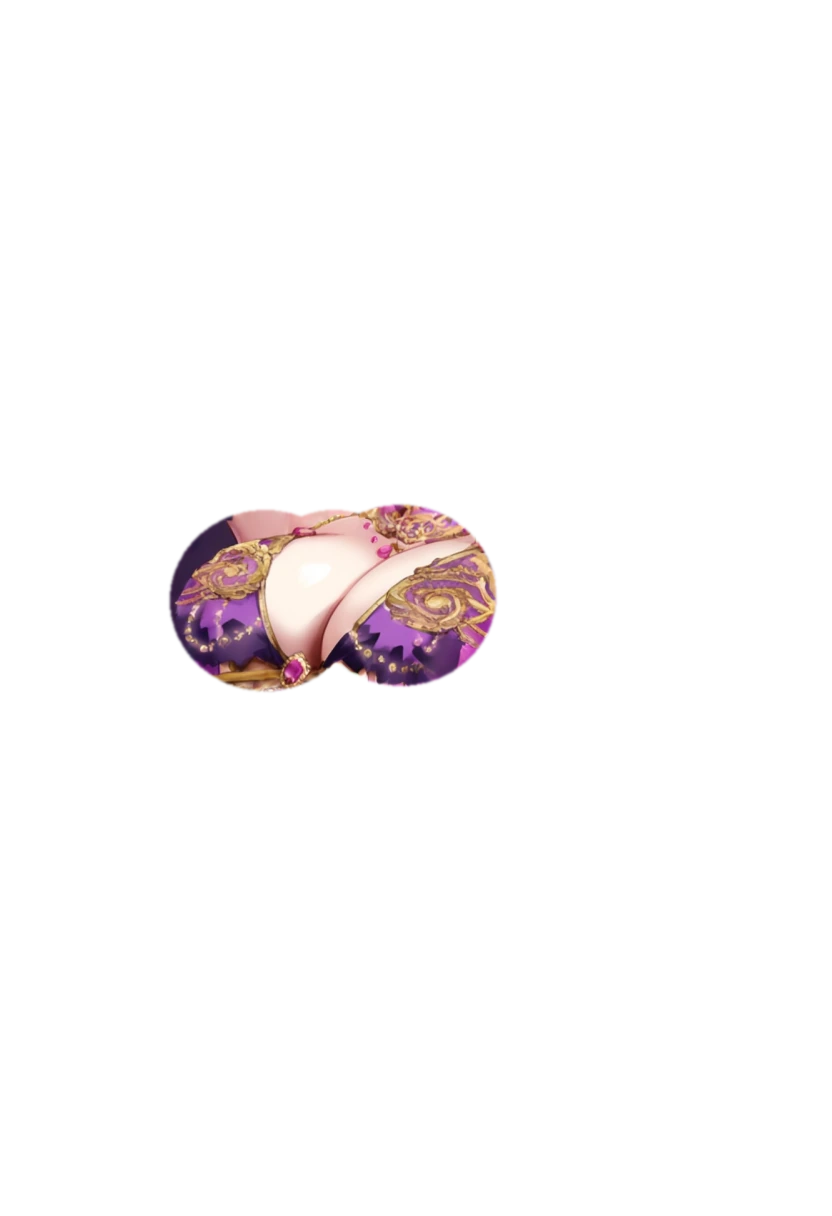
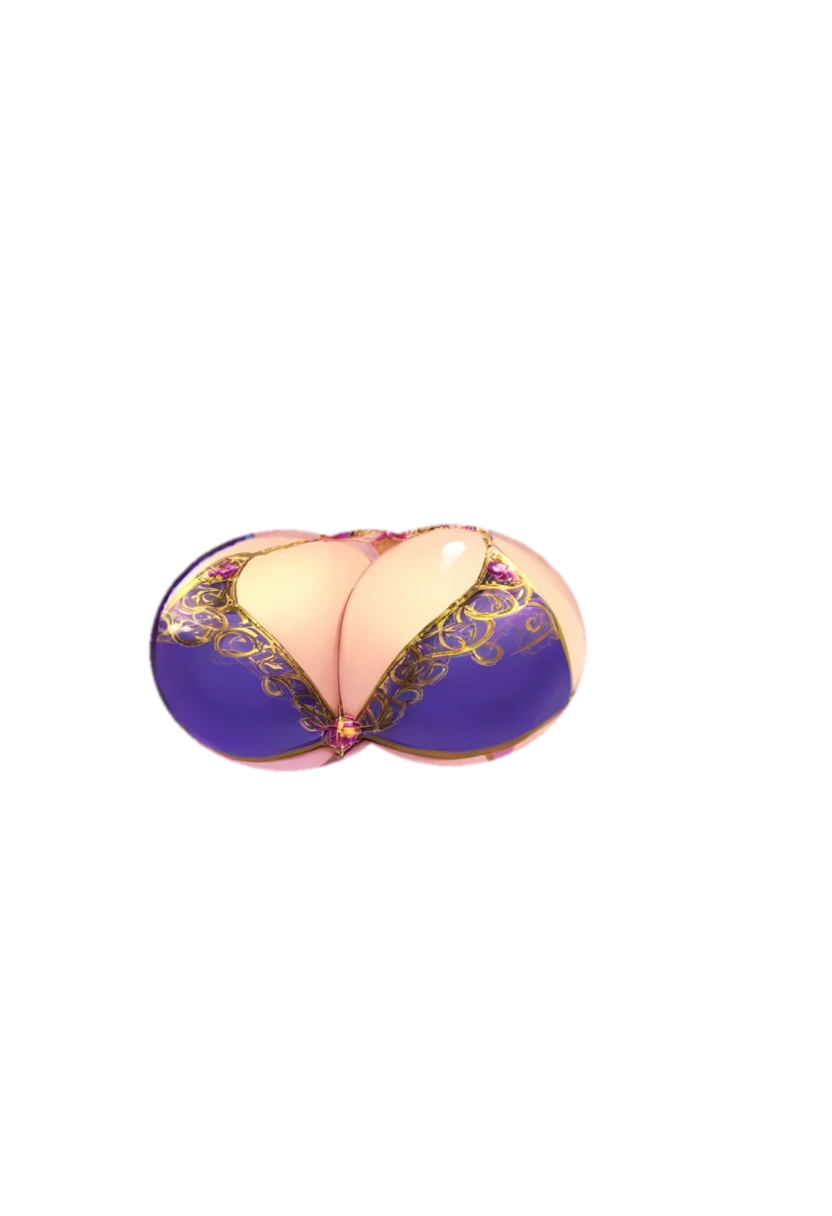
Diaochan v4: bigger chest, beltless base, both sides move together (link)
Claude-Session: https://claude.ai/code/session_017CQhY3FLdH51zJppLF11JD

Changed region(s): [[0.1562, 0.4062, 0.7188, 0.6562]]

diff --git a/game/public/js/layered.js b/game/public/js/layered.js
@@ -16,8 +16,8 @@
     },
     // 貂蟬 v2（2026-11-19 開發用 Colab＋Illustrious-XL 自己生的，Jay 選圖）：只有胸部、平胸底層、閉眼三層
     diaochan_v4: {
-      w: 832, h: 1216,
-      art: [[0.3185, 0.4934, 0.1142, 0.0740], [0.4808, 0.4893, 0.1142, 0.0740]],   // v2 的臉＋舞姬裝，胸部單獨生成（2026-11-19）
+      w: 832, h: 1216, link: 1,
+      art: [[0.3425, 0.5345, 0.1623, 0.0987], [0.5409, 0.5304, 0.1623, 0.0987]],   // v2 的臉＋舞姬裝，胸部單獨生成（2026-11-19 重做：放大、底層整片紫）
     },
     diaochan_v3: {
       w: 832, h: 1216,
@@ -106,7 +106,7 @@
       else { cc.globalCompositeOperation = "destination-in"; cc.drawImage(m, 0, 0); }
       tex = { base: mkTex(b), chest: mkTex(c), blink: mkTex(imgs.blink) }; if (imgs.acc) tex.acc = mkTex(imgs.acc); if (imgs.hair) tex.hair = mkTex(imgs.hair);
     }
-    names.forEach(function (n) { var im = new Image(); im.onload = function () { imgs[n] = im; if (--left === 0) compose(); }; im.src = base + (R.pre || id + "_") + n + ".webp?v=12"; });   // 改圖要換這個數字，不然手機會用到舊圖
+    names.forEach(function (n) { var im = new Image(); im.onload = function () { imgs[n] = im; if (--left === 0) compose(); }; im.src = base + (R.pre || id + "_") + n + ".webp?v=14"; });   // 改圖要換這個數字，不然手機會用到舊圖
 
     var P = { K: 38, C: 3.0, BREATH: 0.0035, BT: 3.8, LIFT: 0.016, MAX: 0.042, RIM: 0.28, amp: opt.amp == null ? 1 : opt.amp };   // MAX 是胸部中心的最大位移；邊緣只動 RIM 倍（約 0.28）
     var c = [{ x: 0, y: 0, vx: 0, vy: 0 }, { x: 0, y: 0, vx: 0, vy: 0 }], ear = [{ a: 0, v: 0 }, { a: 0, v: 0 }], hair = { x: 0, v: 0 };
@@ -143,7 +143,8 @@
       gl.viewport(0, 0, cv.width, cv.height); gl.clearColor(0, 0, 0, 0); gl.clear(gl.COLOR_BUFFER_BIT);
       gl.uniform1f(U.br, br); gl.uniform1f(U.asp, R.h / R.w); gl.uniform1f(U.hs, R.hair || 0.24); gl.uniform1f(U.t, t); gl.uniform1f(U.rim, P.RIM);
       gl.uniform4fv(U.e0, E[0]); gl.uniform4fv(U.e1, E[1]); if (R.acc) { gl.uniform2fv(U.p0, R.acc[0]); gl.uniform2fv(U.p1, R.acc[1]); }
-      gl.uniform2f(U.o0, c[0].x, c[0].y); gl.uniform2f(U.o1, c[1].x, c[1].y); gl.uniform2f(U.ang, ear[0].a, ear[1].a);
+      var lk = R.link || 0, mx = (c[0].x + c[1].x) / 2, my = (c[0].y + c[1].y) / 2;   // link：左右胸部一起動的比例（胸衣是一整片時要開，不然中間會被扯開）
+      gl.uniform2f(U.o0, c[0].x + (mx - c[0].x) * lk, c[0].y + (my - c[0].y) * lk); gl.uniform2f(U.o1, c[1].x + (mx - c[1].x) * lk, c[1].y + (my - c[1].y) * lk); gl.uniform2f(U.ang, ear[0].a, ear[1].a);
       function draw(n, m, al) { gl.bindTexture(gl.TEXTURE_2D, tex[n]); gl.uniform1i(U.m, m); gl.uniform1f(U.al, al); gl.drawElements(gl.TRIANGLES, ix.length, gl.UNSIGNED_SHORT, 0); }
       draw("base", 0, 1); if (bl > 0.02) draw("blink", 0, bl); draw("chest", 1, 1);
       if (tex.hair) { gl.uniform2f(U.o0, hair.x, 0.003 * Math.sin(t * 0.8)); draw("hair", 2, 1); }

diff --git a/game/public/tool/sunquan.html b/game/public/tool/sunquan.html
@@ -17,7 +17,7 @@ input[type=range]{flex:1}
 <div class="row">淡化<input id="fe" type="range" min="0" max="40" step="2" value="6"><span id="fv">6</span></div>
 <div class="row">邊緣<input id="rim" type="range" min="0" max="1" step="0.05" value="0.28"><span id="rv">0.28</span></div>
 <div class="row">幅度<input id="amp" type="range" min="0.3" max="1.3" step="0.1" value="1"><span id="av">1.0</span><button id="poke">晃一下</button></div></div></div>
-<script src="../js/layered.js?v=1119f"></script>
+<script src="../js/layered.js?v=1119h"></script>
 <script>
 var ID=new URLSearchParams(location.search).get("id")||"sunquan_ur";if(ID!=="sunquan_ur"){document.title="分層立繪試作";document.querySelector("#bar b").textContent=({diaochan_v2:"貂蟬",diaochan_v3:"貂蟬 v3",diaochan_v4:"貂蟬 v4"})[ID]+"｜分層立繪試作";document.querySelector("#bar .row").style.display="none";document.getElementById("stage").style.background="#1a1020"}
 var stage=document.getElementById("stage"),amp=document.getElementById("amp"),ol=null,L=null;

diff --git a/game/public/index.html b/game/public/index.html
@@ -56,7 +56,7 @@
 <script src="js/battle.js?v=1119a"></script>
 <script src="js/scene.js?v=1119a"></script>
 <script src="js/audio.js?v=1119a"></script>
-<script src="js/layered.js?v=1119f"></script>
+<script src="js/layered.js?v=1119h"></script>
 <script src="js/cardfx.js?v=1119a"></script>
 <script src="js/jiggle.js?v=1119a"></script>
 <script src="js/ui.js?v=1119a"></script>
